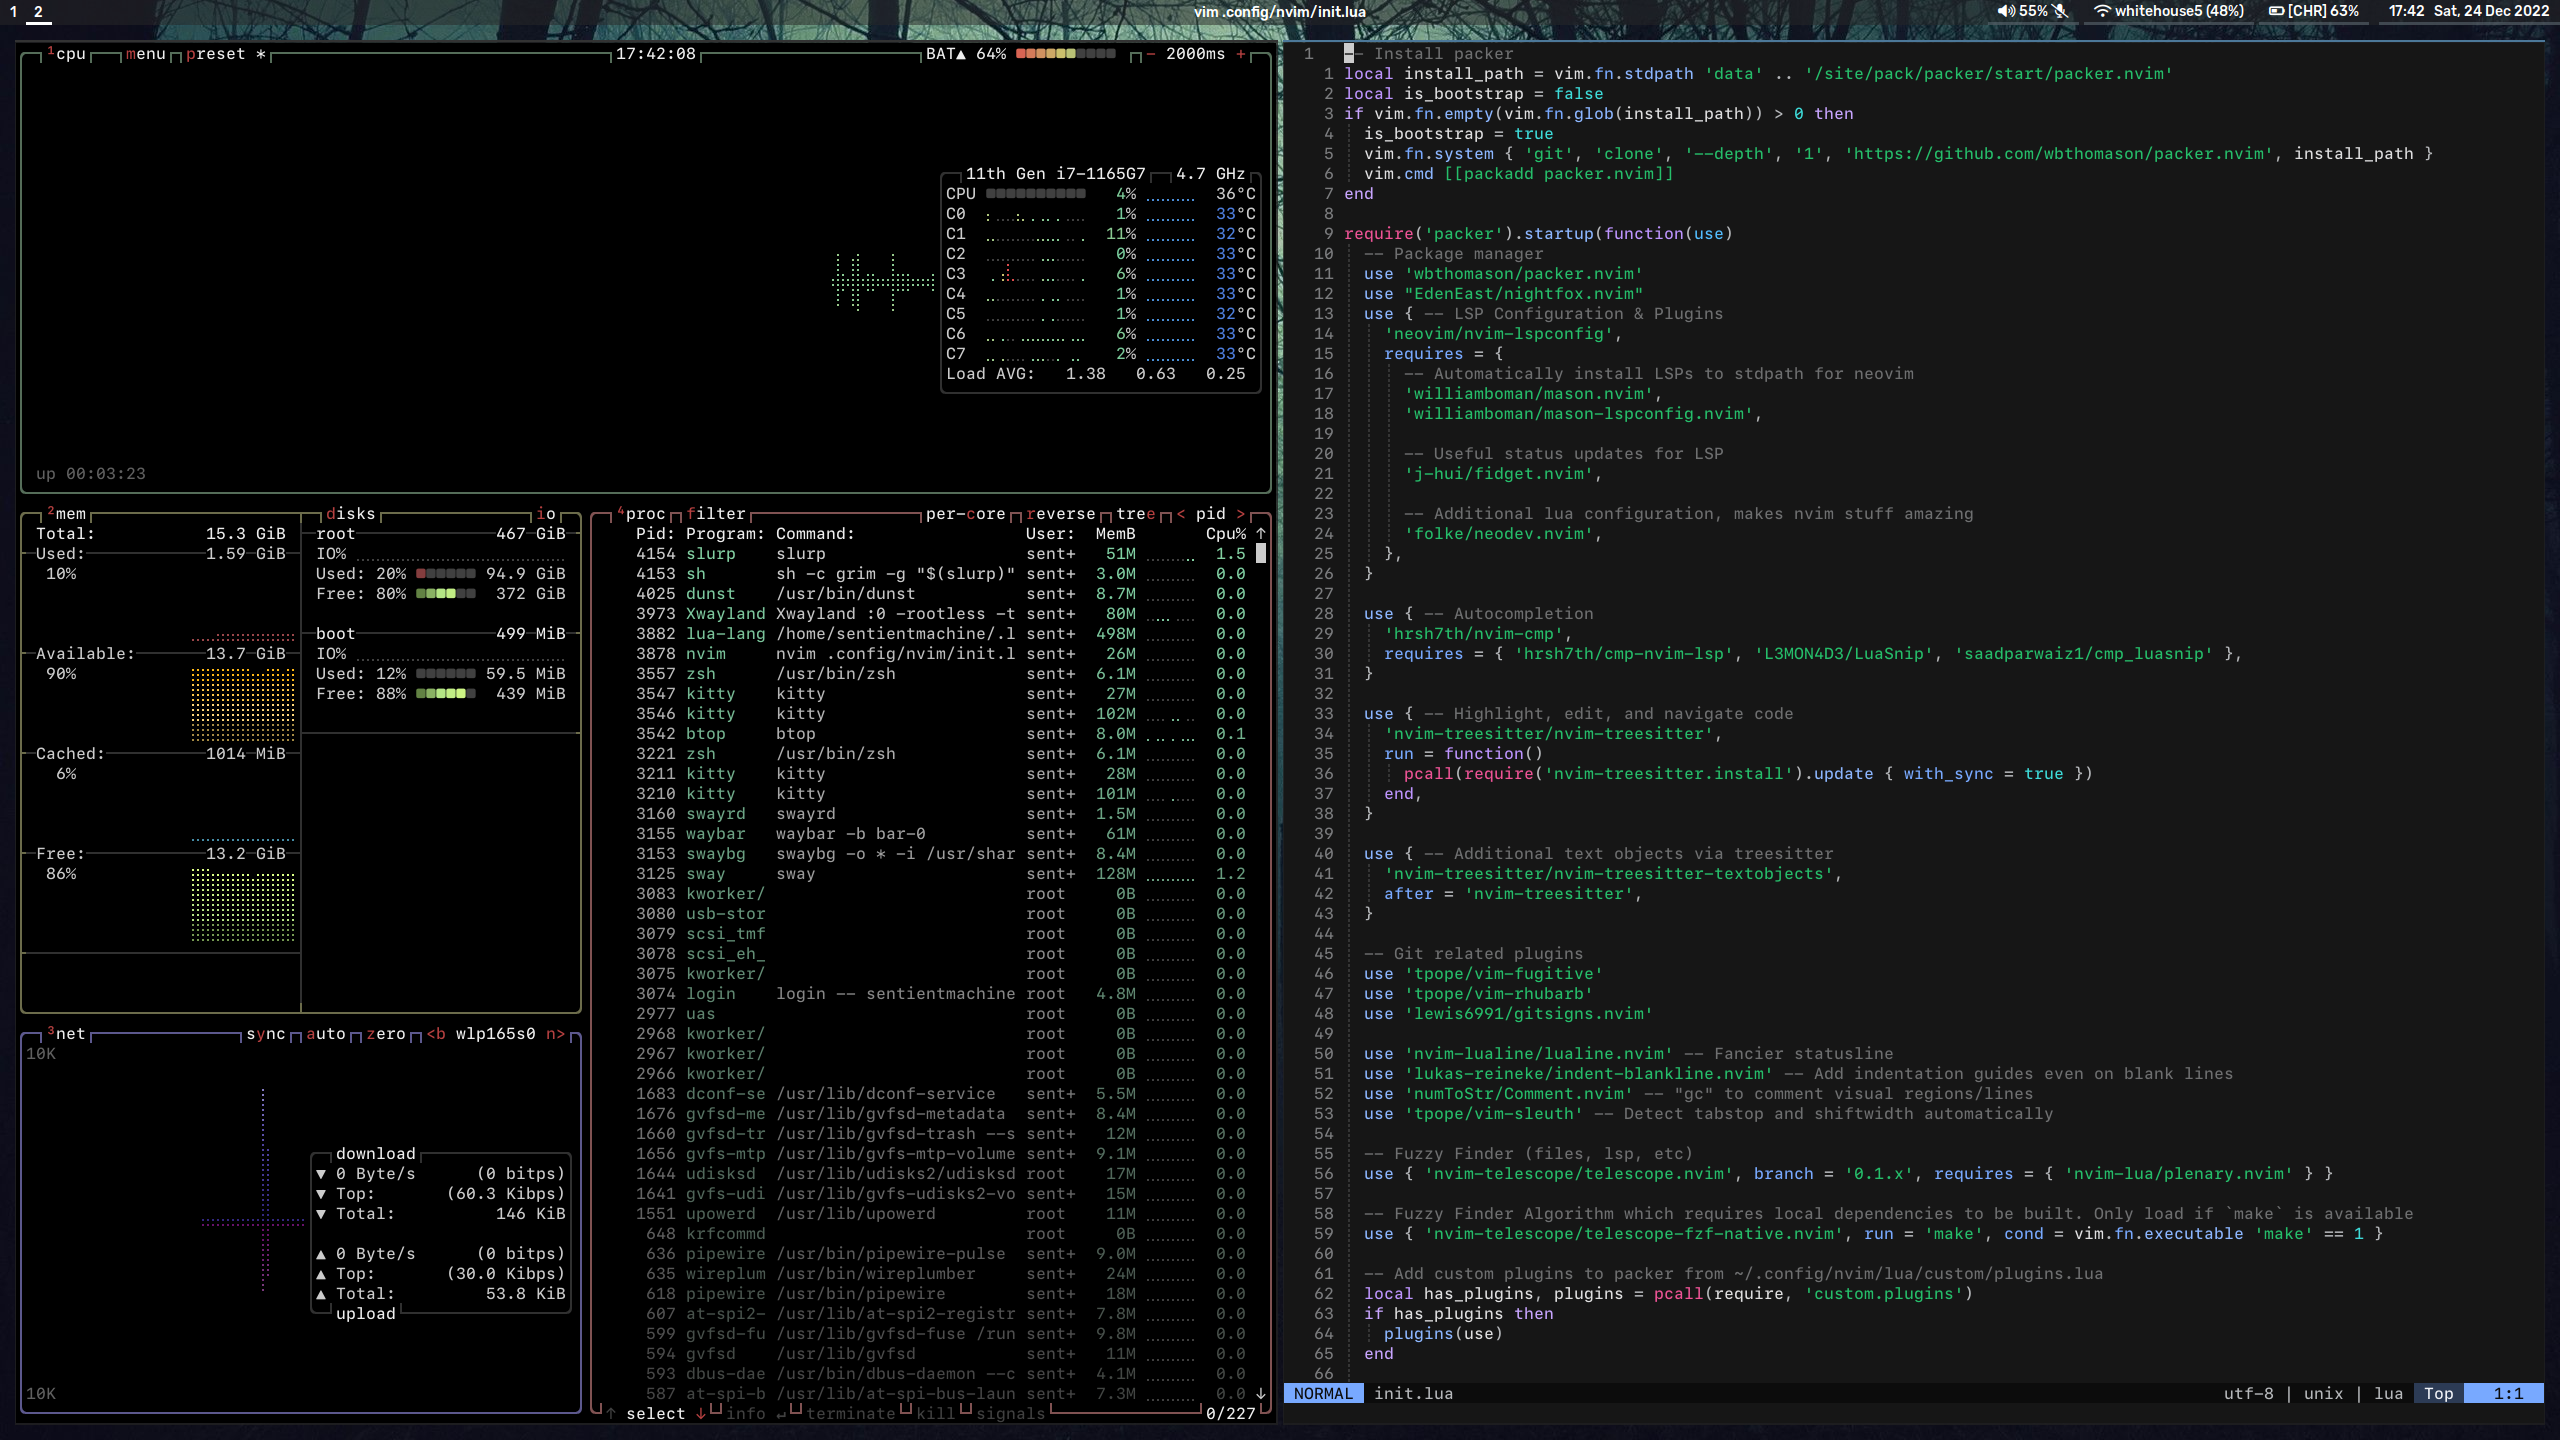
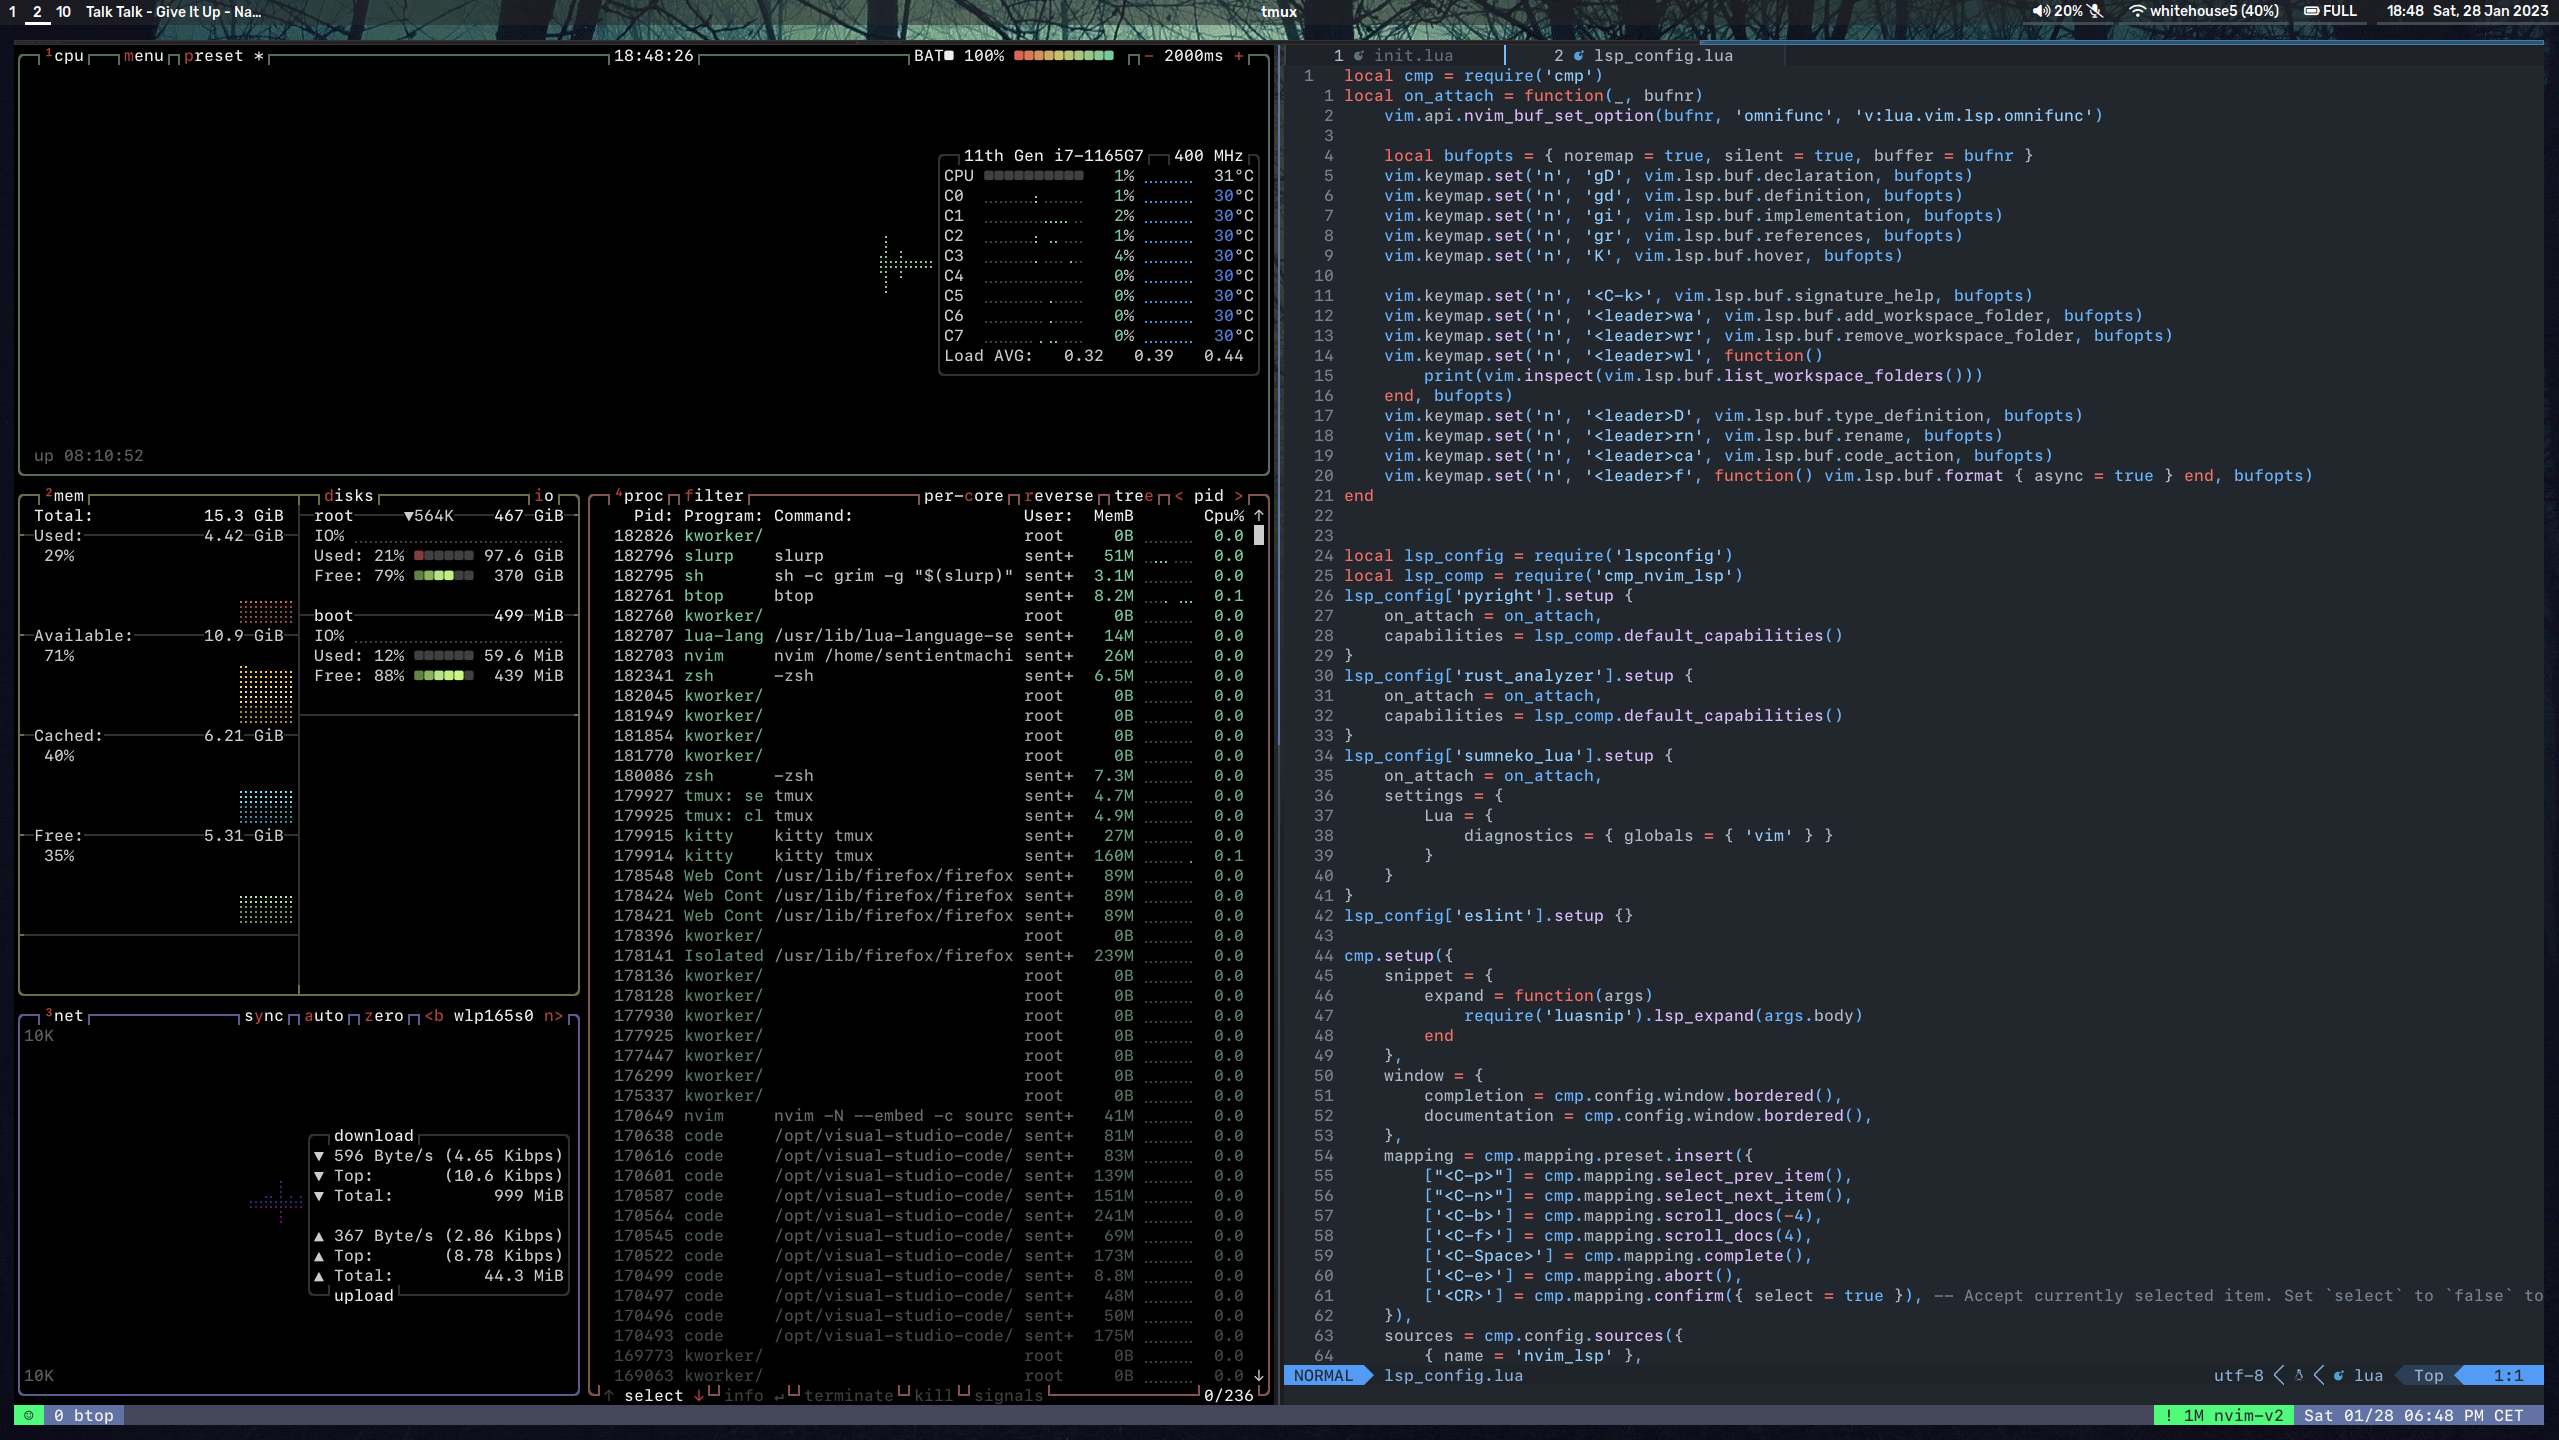
Update readme and screenshot

diff --git a/README.md b/README.md
@@ -2,11 +2,14 @@
 
 This repo contains my configuration files for my dev / daily driver environment, which includes:
 - `sway` as WM, with a tabbed layout, and `waybar` as control panel
-- `nvim` config with some custom remaps
 - `wofi` as application launcher
 - `kitty` as terminal
 - `dunst` as notification manager
 
-My own `zshrc` and a bunch of custom aliases are also included.
+## Neovim setup
+Neovim is configured to behave similarly to VSCode. Just copy the nvim directory into the `.config` folder.
+To make it work you just need to install the Packer plugin manager and you are good to go.
+
+It has a bunch of extensions and supports Python, Rust and Typescript, which are the languages I'm currently working with.
 
 ![screenshot](screenshot.png)
